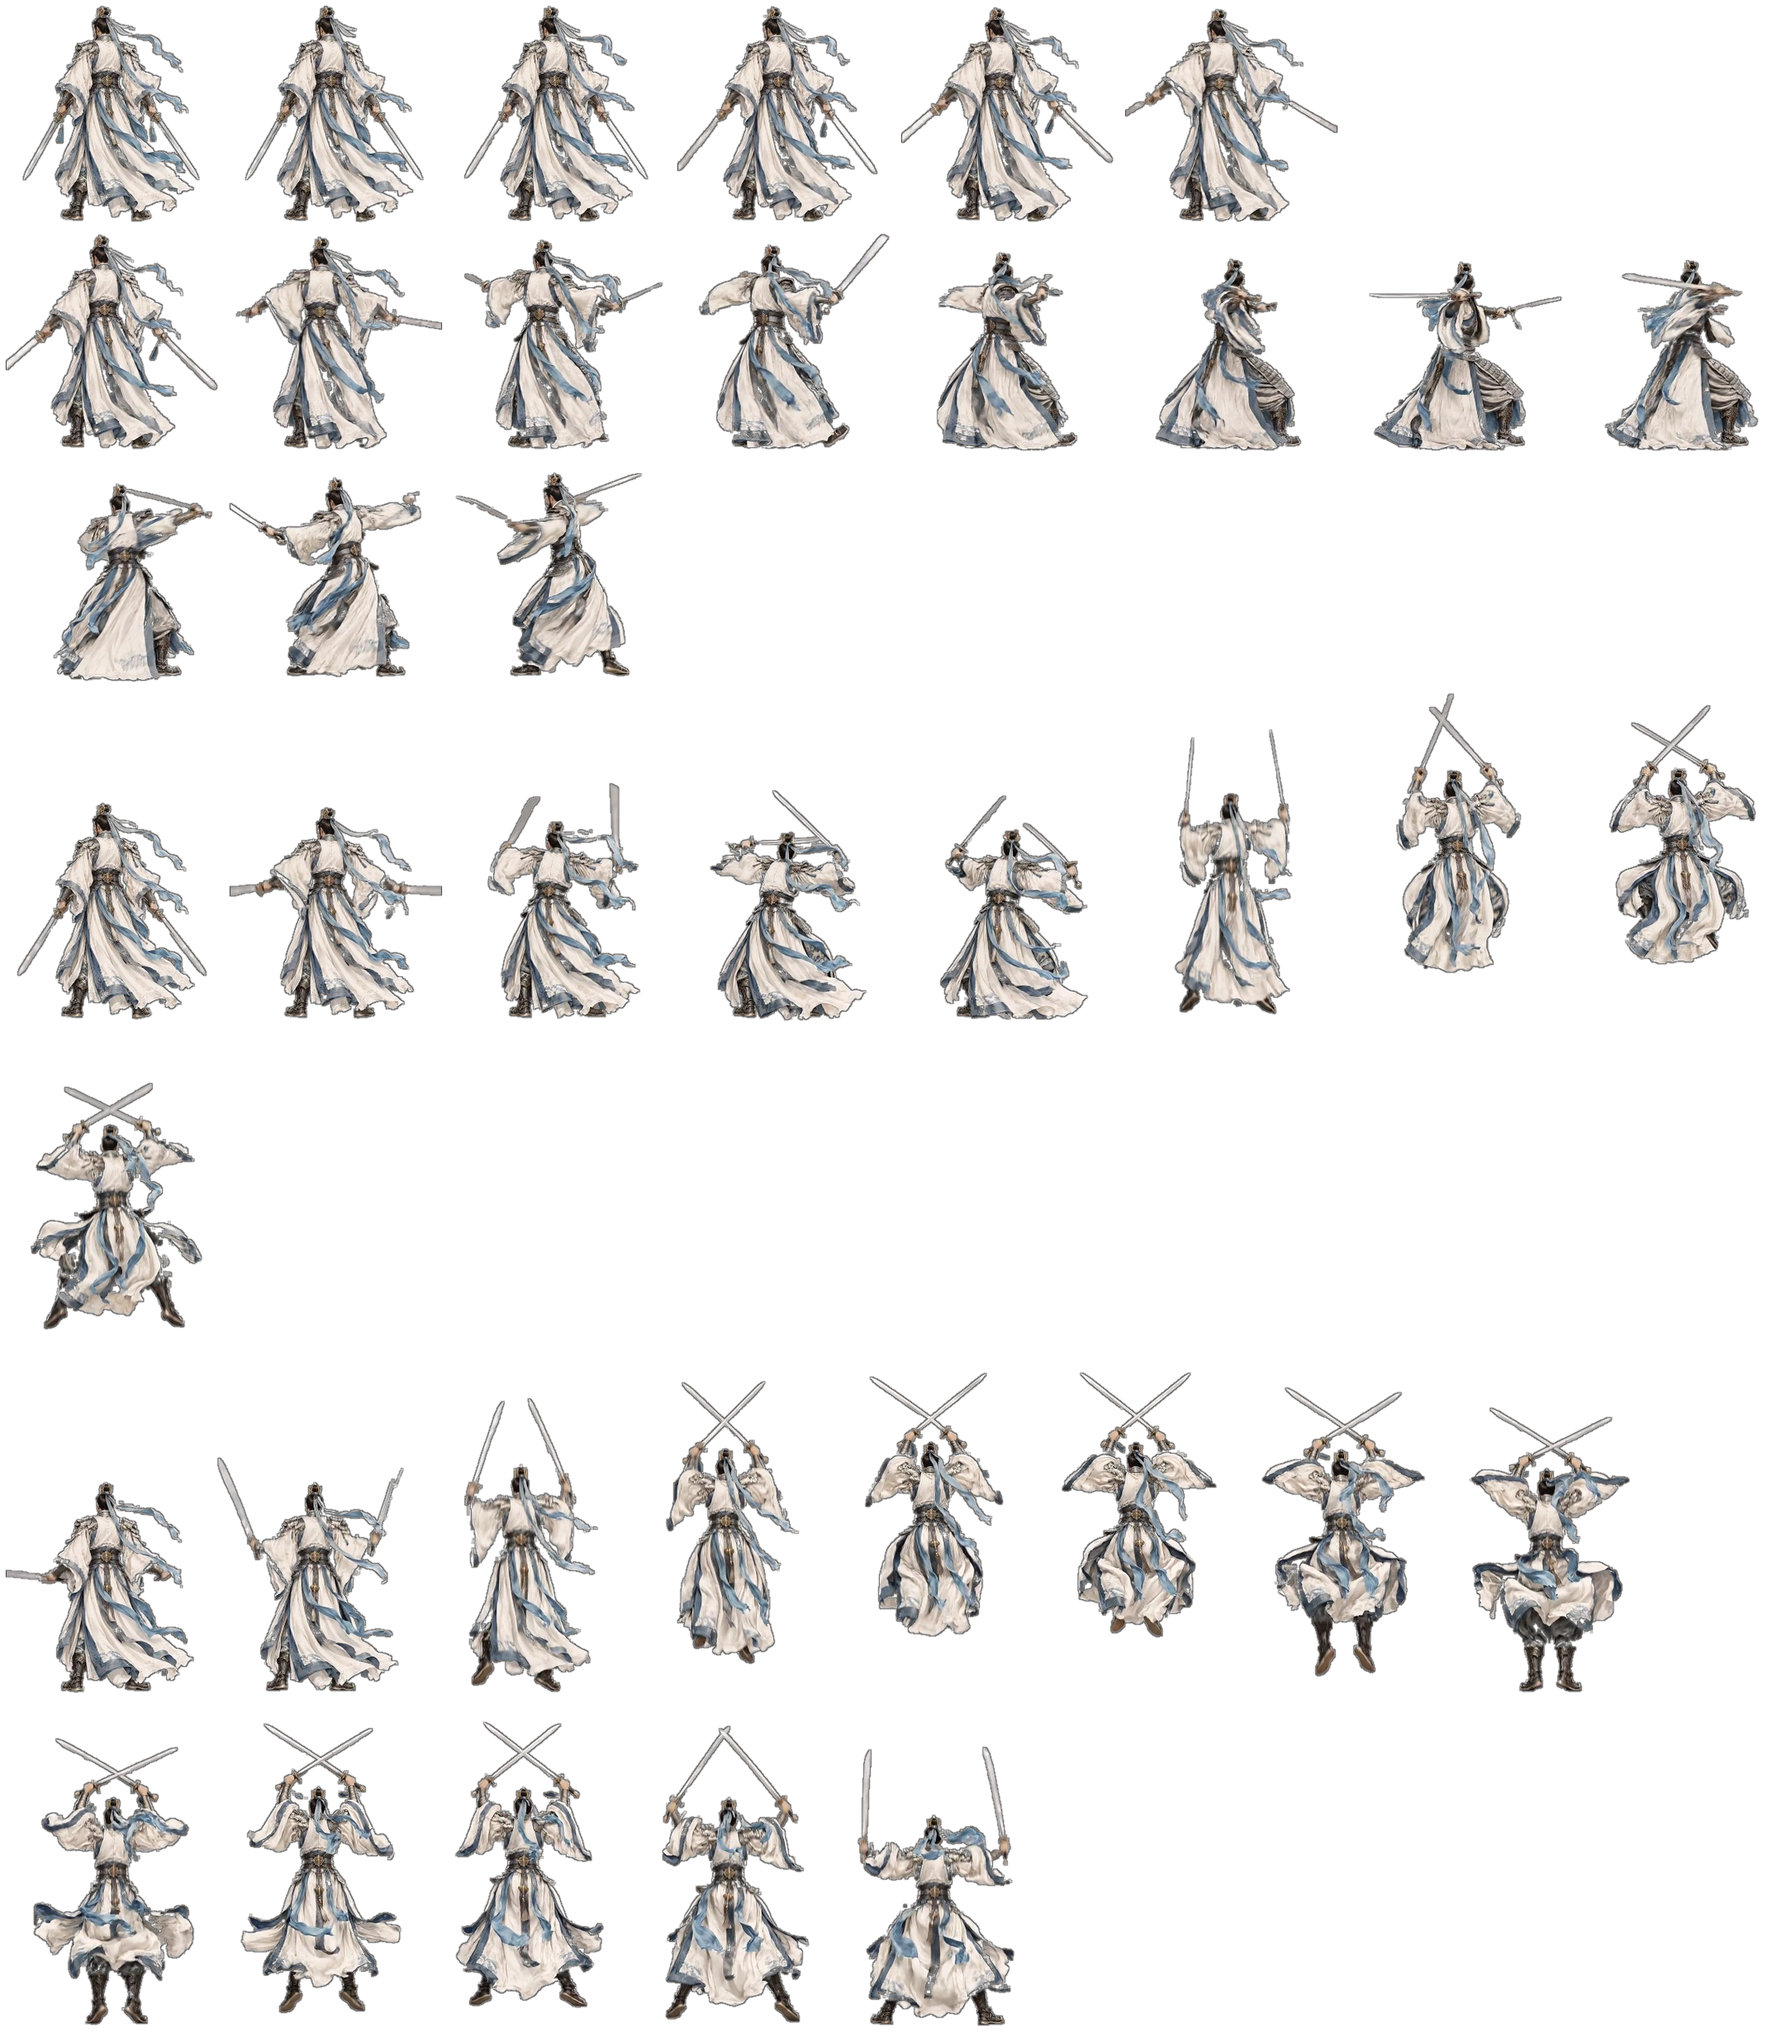
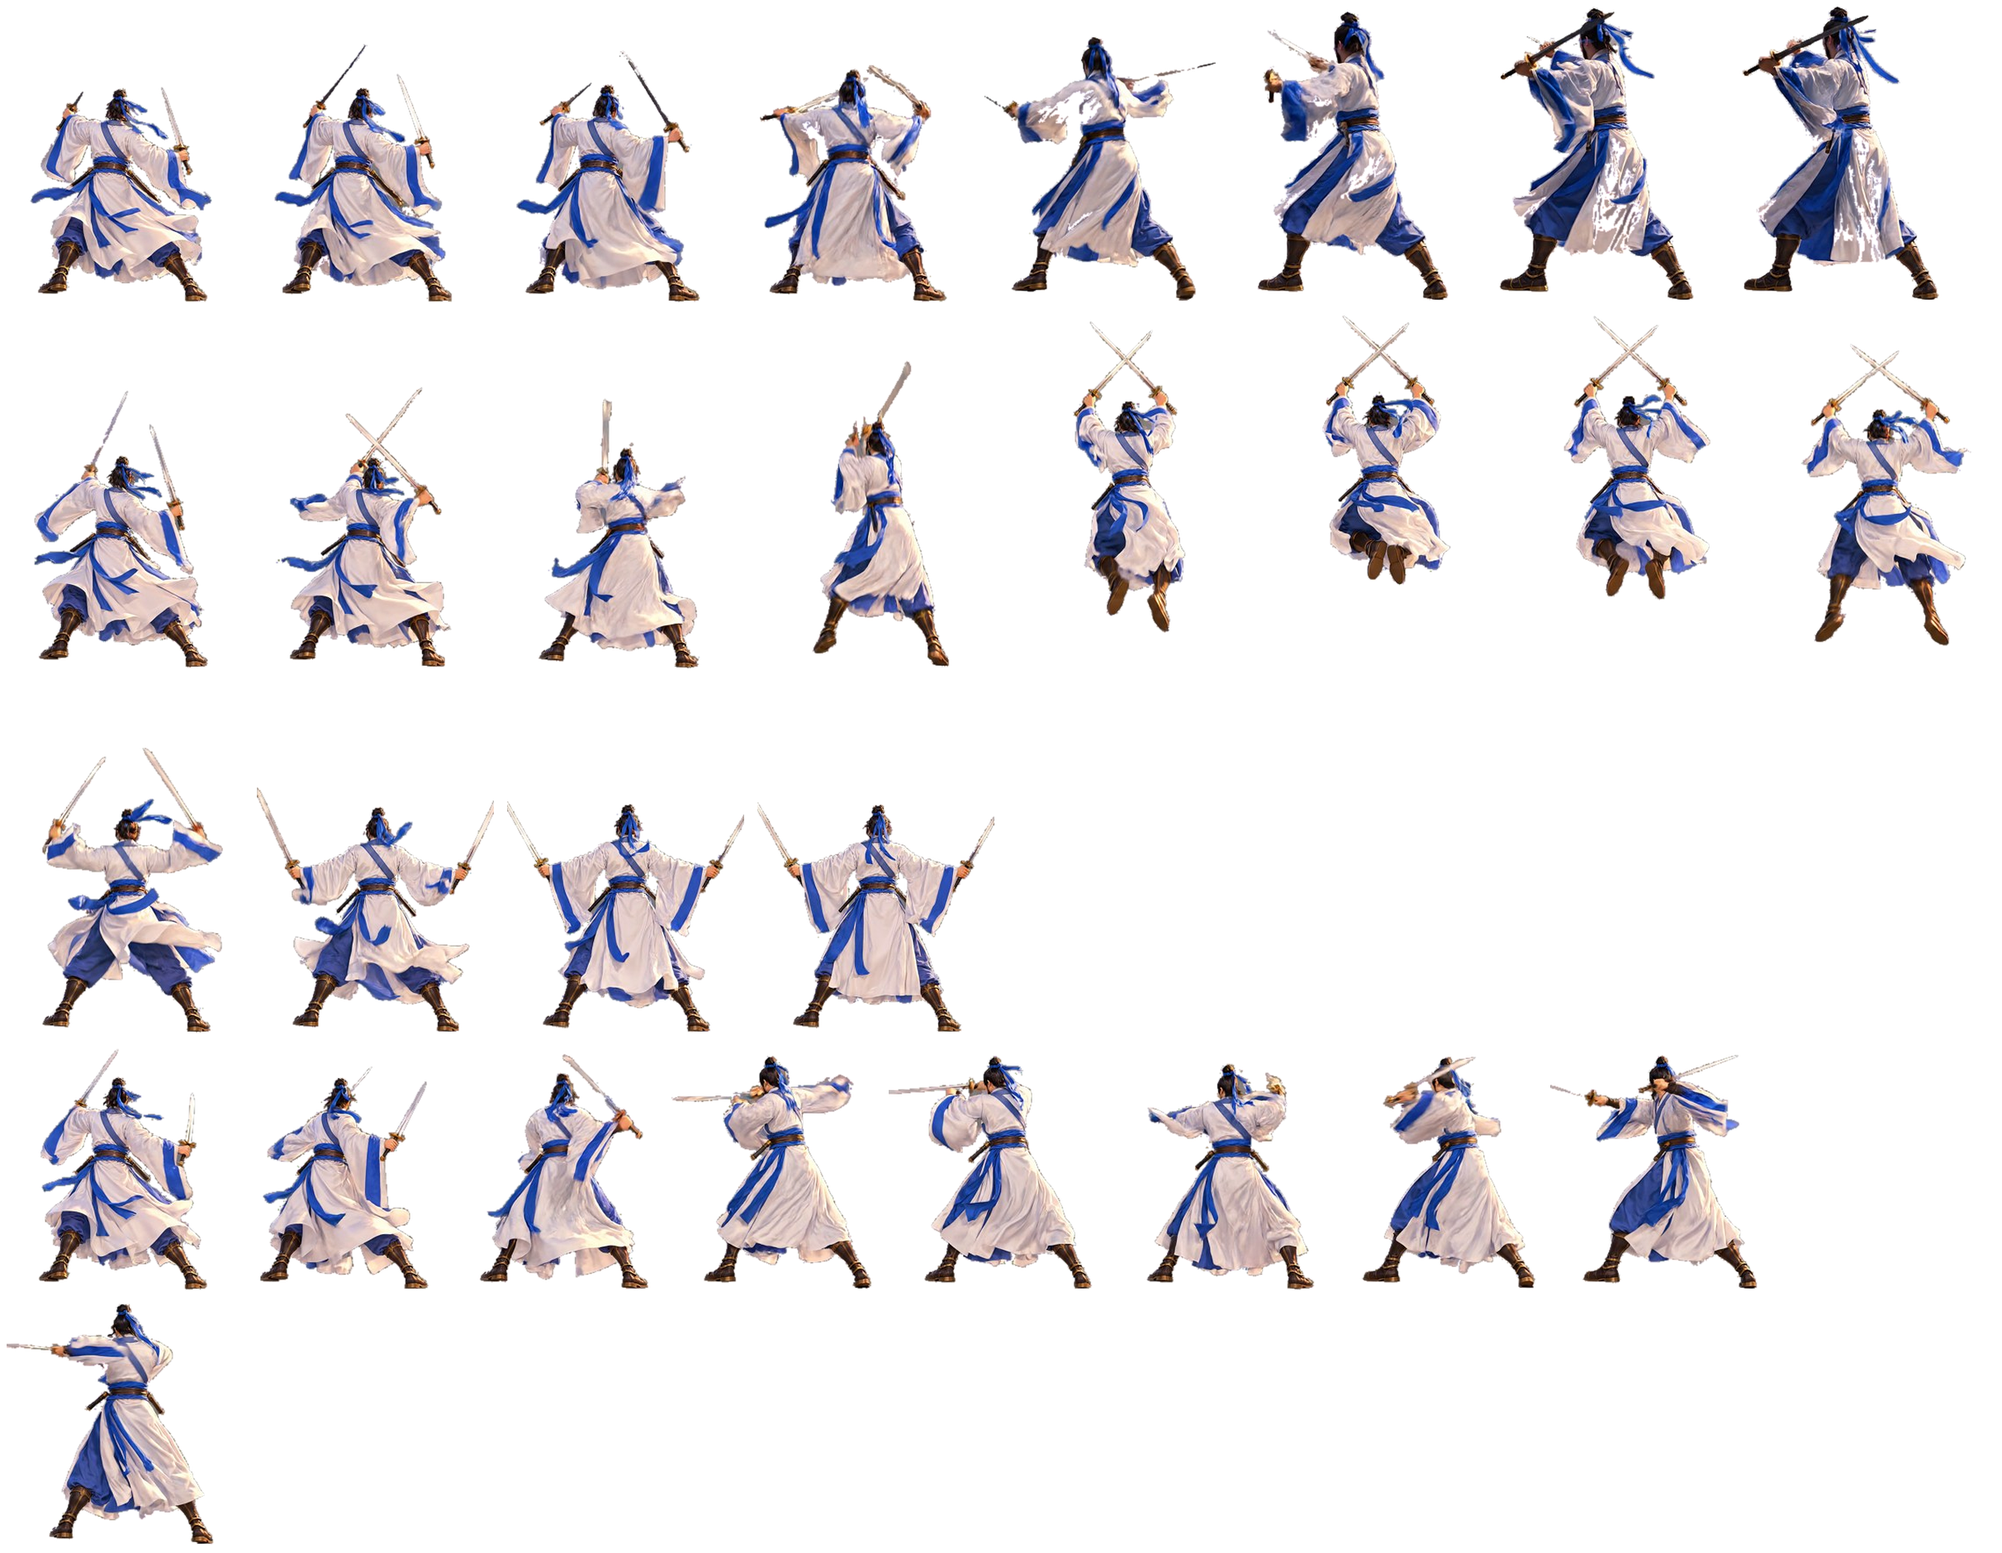
New-style battle figures for Guan, Zhang, Liu; wall % inside raised gold band, green bar removed

diff --git a/原型/守关.html b/原型/守关.html
@@ -2147,6 +2147,7 @@ function drawGenerals() {
   }
   // 城防
   const fr = G.wall / G.wallMax;                                                 // 城防：走道最下沿一条带金边的长条，掉血闪白，低了变红
+  if (ready(IMG.ui2_top)) return;                                                 // 10-27 用户：「把金线加高，里面显示城防，去掉绿色那个」——城防写进底栏金线下那一格（见底栏）
   if (ready(IMG.ui2_slot)) {                                                      // 简洁版（10-25）：不套底板，字描一圈深色压在城砖上，百分比写在条上
     const k = 16 / 33, bx = 40, by = SLOT_Y - 21; uiText('城防', 8, SLOT_Y - 13, 12, UIC.gold2, 'left', FONT);
     uiBar('wall', bx + 5 * k, by + 6 * k, 110 - 12 * k, 20 * k, fr, fr > .5 ? '#1f6a4a' : '#8a1a10', fr > .5 ? '#5fd39a' : '#ff6a3a', { edge: 'rgba(0,0,0,0)' }); draw9(IMG.ui2_slot, bx, by, 110, 16, 18, 18, 0, 0, k);
@@ -3295,7 +3296,8 @@ function drawHud() {
 const FACE = { guan: [20, 0, 190], zhang: [25, 0, 190], liu: [10, 0, 190] };   /* 10-27 换成 Codex 画的新胸像（用户：「战法的形象也换掉」），原水墨头像在 美术/重画/旧/p_<人>_ink.jpg */   // 头像图里头肩那一块：[左, 上, 边长]（原图 240 见方）
 const GEN_BLOCK = { guan: '#1d4d34', zhang: '#6e2014', liu: '#1c3f60' };         // 名牌底色：关羽深绿、张飞深红、刘备深蓝，一眼分得开
 function drawSlots() {
-  if (ready(IMG.ui2_top)) { const th = H - SLOT_Y + 14; ctx.save(); ctx.translate(0, SLOT_Y - 8 + th); ctx.scale(1, -1); draw9(IMG.ui2_top, -24, 0, W + 48, th, 40, 40, 8, 12, .5); ctx.restore(); }   // 顶栏那块倒过来：金线在上沿
+  if (ready(IMG.ui2_top)) { const th = H - SLOT_Y + 30; ctx.save(); ctx.translate(0, SLOT_Y - 24 + th); ctx.scale(1, -1); draw9(IMG.ui2_top, -24, 0, W + 48, th, 40, 40, 8, 12, .5); ctx.restore();   // 顶栏那块倒过来：金线在上沿，加高一格放城防
+    if (G && screen === 'play') { const fr = G.wall / G.wallMax, low = fr <= .5; uiText('城防', 14, SLOT_Y - 13, 12, UIC.gold2, 'left', FONT); uiText(Math.ceil(fr * 100) + '%', 50, SLOT_Y - 13, 12, low ? '#ff7a4a' : UIC.cream, 'left', PLAIN); } }
   else uiPanel(-4, SLOT_Y - 4, W + 8, H - SLOT_Y + 8, { r: 0, alpha: .95 });
   const now = G.t;
   // 主动战法（滚木、连弩）放进右边的空格；空格不够就在底栏上方右边排小方钮（10-25 用户圈了两个空格：「滚木那类主动战法让用户自己点，你想办法把人头变小点」）

diff --git a/工具/veo/cut_generals.py b/工具/veo/cut_generals.py
@@ -134,7 +134,7 @@ for g in (sys.argv[2:] or ['guan', 'zhang', 'liu']):
         ims = []
         for f in frames:
             im = Image.fromarray(f[y0:y1, x0:x1], 'RGBA').resize((W - 16, H - 16), Image.Resampling.LANCZOS)
-            pad = Image.new('RGBA', (W, H), (0, 0, 0, 0)); pad.paste(im, (8, 8)); ims.append(ink(pad, keep=1, line=float(os.environ.get('INK_LINE', 3)), halo=float(os.environ.get('INK_HALO', 4))))   # 10-27 用户嫌吕布「阴影好严重」：新画风重录时 INK_LINE=1 INK_HALO=0
+            pad = Image.new('RGBA', (W, H), (0, 0, 0, 0)); pad.paste(im, (8, 8)); ims.append(ink(pad, keep=1, line=int(os.environ.get('INK_LINE', 3)), halo=int(os.environ.get('INK_HALO', 4))))   # 10-27 用户嫌吕布「阴影好严重」：新画风重录时 INK_LINE=1 INK_HALO=0
         strips.append((anim, ims, [round((cx - x0) * kk + 8, 1), round((feet - y0) * kk + 8, 1)]))
         print(g, anim, tid, len(ims), '帧', f'{W}x{H}')
     PER = 8                                                                             # 一行最多 8 帧，图集长宽都别超过 4096（手机上贴图边长有上限）
